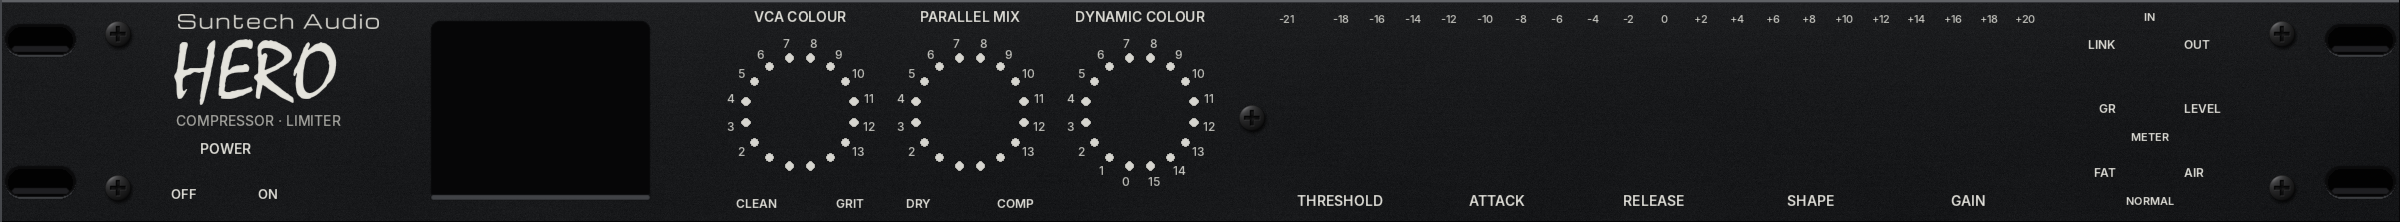
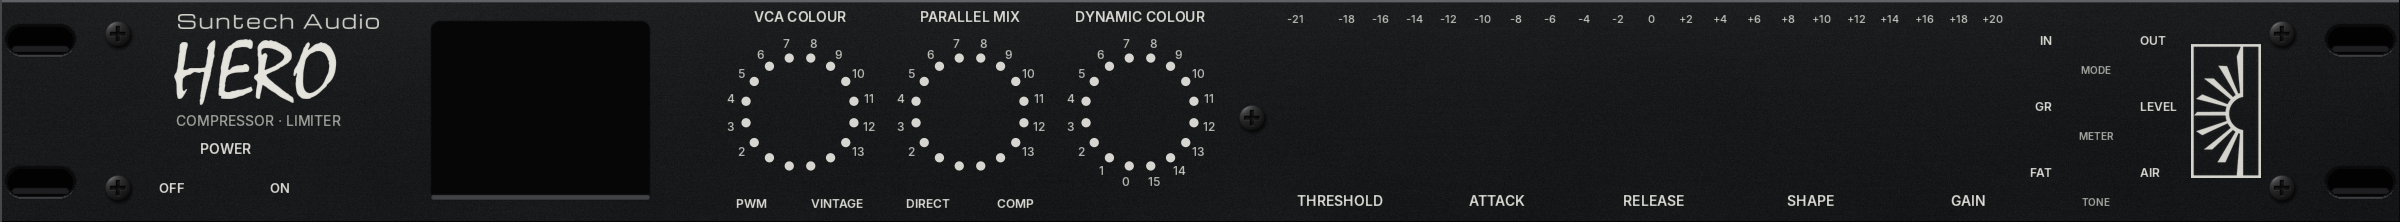
Update HERO hardware GUI and slow stepped encoders; retain linked and neutral modes

diff --git a/plugin/Editor.cpp b/plugin/Editor.cpp
@@ -4,29 +4,41 @@ using namespace juce;
 namespace {
 Image asset(const char* name){int n=0;const auto* data=HeroAssets::getNamedResource(name,n);return data?ImageCache::getFromMemory(data,n):Image{};}
 struct Position{int index;float x,y,size;bool red,toggle;int steps;};
-constexpr Position positions[]={{0,226,188,72,false,true,2},{5,800,112,88,true,false,16},{6,970,112,88,true,false,16},{7,1140,112,88,true,false,16},
- {1,1340,128,104,false,false,100},{2,1497,128,104,false,false,100},{3,1654,128,104,false,false,100},{4,1811,128,104,false,false,100},{8,1968,128,104,false,false,24},
- {9,2150,44,72,false,true,3},{10,2150,108,72,false,true,2},{11,2150,172,72,false,true,3}};
+constexpr Position positions[]={{0,226,188,96,false,true,2},{5,800,112,120,true,false,16},{6,970,112,120,true,false,16},{7,1140,112,120,true,false,16},
+ {1,1340,128,136,false,false,100},{2,1497,128,136,false,false,100},{3,1654,128,136,false,false,100},{4,1811,128,136,false,false,100},{8,1968,128,136,false,false,24},
+ {9,2096,40,96,false,true,3},{10,2096,106,96,false,true,2},{11,2096,172,96,false,true,3}};
 }
 HeroControl::HeroControl(HeroProcessor& p,int id,bool r,bool t,int steps):processor(p),parameter(p.state.getParameter(HeroProcessor::ids[(size_t)id])),index(id),count(steps),red(r),toggle(t){
     setComponentID(HeroProcessor::ids[(size_t)id]);setName(parameter->getName(64));setWantsKeyboardFocus(true);
-    if(toggle){left=asset("switch_left_png");center=asset("switch_center_png");right=asset("switch_right_png");}
-    else {strip=asset(red?"hero_knob_red_strip_256_png":"hero_knob_teal_strip_256_png");shadow=asset(red?"hero_knob_red_shadow_512_png":"hero_knob_teal_shadow_512_png");}refresh();
+    strip=asset(toggle?"hero_toggle_strip_png":red?"hero_knob_red_strip_png":"hero_knob_teal_strip_png");refresh();
 }
-bool HeroControl::assetsValid()const{return toggle?left.isValid()&&center.isValid()&&right.isValid():strip.isValid()&&shadow.isValid();}
+bool HeroControl::assetsValid()const{return strip.isValid()&&strip.getHeight()==strip.getWidth()*(toggle?2:red?16:128);}
 void HeroControl::paint(Graphics& g){g.setImageResamplingQuality(Graphics::highResamplingQuality);
-    if(toggle){int pos=roundToInt(current());const Image& image=count==2?(pos?right:left):(pos==0?left:pos==1?center:right);g.drawImage(image,getLocalBounds().toFloat());return;}
-    g.drawImage(shadow,getLocalBounds().toFloat());const int frames=red?16:128,frame=jlimit(0,frames-1,red?roundToInt(current()):roundToInt(current()/(count-1)*(frames-1)));
-    g.drawImage(strip,0,0,getWidth(),getHeight(),0,frame*256,256,256);
+    int frame=0;
+    if(toggle){const int v=roundToInt(current());frame=index==9?(v==2?1:0):index==11?(v==2?1:0):v;
+        if(index==11&&v==1){const auto bounds=getLocalBounds().toFloat().reduced(getWidth()*.14f,getHeight()*.32f);g.setColour(Colour(0xff090b0c));g.fillRoundedRectangle(bounds,3.f);g.setColour(Colour(0xff65716d));g.drawRoundedRectangle(bounds,3.f,.7f);g.setColour(Colour(0xffccd4cf));g.setFont(Font(FontOptions().withHeight(getHeight()*.18f)));g.drawText("NORMAL",bounds,Justification::centred,false);return;}}
+    else {const int frames=red?16:128;frame=jlimit(0,frames-1,red?roundToInt(current()):roundToInt(current()/(count-1)*(frames-1)));}
+    const int side=strip.getWidth();g.drawImage(strip,0,0,getWidth(),getHeight(),0,frame*side,side,side);
 }
 void HeroControl::set(float v){v=red?(float)((roundToInt(v)%count+count)%count):jlimit(0.f,float(count-1),v);parameter->setValueNotifyingHost(parameter->convertTo0to1(v));refresh();}
-void HeroControl::mouseDown(const MouseEvent& e){if(e.mods.isPopupMenu()){if(contextMenu)contextMenu();return;}grabKeyboardFocus();start=current();parameter->beginChangeGesture();dragging=true;}
-void HeroControl::mouseDrag(const MouseEvent& e){if(!dragging)return;const float sensitivity=e.mods.isShiftDown()?.08f:.5f;const float distance=toggle?float(e.getDistanceFromDragStartX())/10.f:-float(e.getDistanceFromDragStartY())*sensitivity;
-    if(toggle&&std::abs(e.getDistanceFromDragStartX())<6)return;set(start+std::round(distance));}
-void HeroControl::mouseUp(const MouseEvent& e){if(!dragging)return;if(toggle&&e.getDistanceFromDragStart()<4){const int next=(roundToInt(start)+1)%count;set((float)next);}parameter->endChangeGesture();dragging=false;}
-void HeroControl::mouseDoubleClick(const MouseEvent&){parameter->beginChangeGesture();parameter->setValueNotifyingHost(parameter->getDefaultValue());parameter->endChangeGesture();refresh();}
-void HeroControl::mouseWheelMove(const MouseEvent&,const MouseWheelDetails& wheel){if(wheel.deltaY==0)return;parameter->beginChangeGesture();set(current()+(wheel.deltaY>0?1.f:-1.f));parameter->endChangeGesture();}
-bool HeroControl::keyPressed(const KeyPress& key){int step=0;if(key==KeyPress::upKey||key==KeyPress::rightKey)step=1;else if(key==KeyPress::downKey||key==KeyPress::leftKey)step=-1;else return false;parameter->beginChangeGesture();set(current()+(float)step);parameter->endChangeGesture();return true;}
+void HeroControl::setTogglePosition(bool right){set(index==9?(right?2.f:(float)processor.preferredMode()):index==11?(right?2.f:0.f):(right?1.f:0.f));}
+void HeroControl::mouseDown(const MouseEvent& e){if(e.mods.isPopupMenu()){if(contextMenu)contextMenu();return;}grabKeyboardFocus();start=current();dragSteps=wheelSteps=0;lastDragY=0;parameter->beginChangeGesture();dragging=true;}
+void HeroControl::mouseDrag(const MouseEvent& e){if(!dragging)return;
+    if(toggle){if(std::abs(e.getDistanceFromDragStartX())<6)return;setTogglePosition(e.getDistanceFromDragStartX()>0);return;}
+    const int distance=e.getDistanceFromDragStartY();const float pixels=float(lastDragY-distance);lastDragY=distance;
+    const float rate=red?1.f/(e.mods.isShiftDown()?64.f:16.f):float(count-1)/(e.mods.isShiftDown()?1440.f:360.f);
+    dragSteps+=pixels*rate;
+    if(red){const float step=std::trunc(dragSteps);if(step!=0){dragSteps-=step;set(current()+step);}}
+    else {dragSteps=jlimit(-start,float(count-1)-start,dragSteps);set(start+std::round(dragSteps));}
+}
+void HeroControl::mouseUp(const MouseEvent& e){if(!dragging)return;if(toggle&&e.getDistanceFromDragStart()<4){const bool wasRight=index==9?start==2:index==11?start==2:start>0;setTogglePosition(index==11&&start==1?e.position.x>=getWidth()*.5f:!wasRight);}parameter->endChangeGesture();dragging=false;}
+void HeroControl::mouseDoubleClick(const MouseEvent&){if(!dragging)parameter->beginChangeGesture();parameter->setValueNotifyingHost(parameter->getDefaultValue());if(!dragging)parameter->endChangeGesture();start=current();dragSteps=0;lastDragY=0;refresh();}
+void HeroControl::mouseWheelMove(const MouseEvent& e,const MouseWheelDetails& wheel){if(wheel.deltaY==0||dragging)return;const auto now=Time::getMillisecondCounter();const float delta=wheel.deltaY;
+    if(now-lastWheelTime>400||(wheelSteps*delta<0))wheelSteps=0;lastWheelTime=now;
+    const float amount=wheel.isSmooth?delta*(red?2.f:4.f):std::copysign(jmin(1.f,std::abs(delta)/.1f),delta);
+    wheelSteps=jlimit(-1.f,1.f,wheelSteps+amount*(e.mods.isShiftDown()?.25f:1.f));const float step=std::trunc(wheelSteps);if(step==0)return;wheelSteps-=step;
+    parameter->beginChangeGesture();if(toggle)setTogglePosition(step>0);else set(current()+step);parameter->endChangeGesture();}
+bool HeroControl::keyPressed(const KeyPress& key){int step=0;if(key==KeyPress::upKey||key==KeyPress::rightKey)step=1;else if(key==KeyPress::downKey||key==KeyPress::leftKey)step=-1;else return false;parameter->beginChangeGesture();if(toggle)setTogglePosition(step>0);else set(current()+(float)step);parameter->endChangeGesture();return true;}
 void HeroControl::refresh(){const float v=current();if(v==last)return;last=v;String text=parameter->getName(40)+": "+String(roundToInt(v));
     if(index==1)text+=" ("+String(-40.+40.*v/99.,1)+" dBFS reference)";
     if(index==2)text+=" (nominal "+String(.05*std::pow(8000.,v/99.),2)+" ms)";
@@ -34,7 +46,8 @@ void HeroControl::refresh(){const float v=current();if(v==last)return;last=v;Str
     if(index==8)text=String(.5*v,1)+" dB make-up";
     if(toggle)text=parameter->getName(40)+": "+parameter->getCurrentValueAsText();setTooltip(text);repaint();
 }
-HeroEditor::HeroEditor(HeroProcessor& p):AudioProcessorEditor(p),processor(p),panel(asset("faceplate_png")),meterOff(asset("meter_all_off_png")),meterOn(asset("meter_all_on_png")){
+HeroEditor::HeroEditor(HeroProcessor& p):AudioProcessorEditor(p),processor(p),panel(asset("faceplate_png")),panel1x(asset("faceplate_1x_png")),meterWindow(asset("meter_window_bg_png")){
+    const char* colours[]={"lime","orange","red"};for(int i=0;i<3;++i){ledOff[(size_t)i]=asset((String("led_")+colours[i]+"_off_png").toRawUTF8());ledOn[(size_t)i]=asset((String("led_")+colours[i]+"_on_png").toRawUTF8());}
     lcdFace=Typeface::createSystemTypefaceFor(HeroAssets::DejaVuSansMono_ttf,HeroAssets::DejaVuSansMono_ttfSize);
     for(const auto& pos:positions){auto* c=controls.add(new HeroControl(p,pos.index,pos.red,pos.toggle,pos.steps));c->contextMenu=[this]{showMenu();};addAndMakeVisible(c);}
     PropertiesFile::Options options;options.applicationName="Suntech Audio HERO";options.folderName="Suntech Audio";options.filenameSuffix="settings";options.osxLibrarySubFolder="Application Support";preferences.setStorageParameters(options);
@@ -43,19 +56,22 @@ HeroEditor::HeroEditor(HeroProcessor& p):AudioProcessorEditor(p),processor(p),pa
 }
 HeroEditor::~HeroEditor(){stopTimer();preferences.getUserSettings()->setValue("width",getWidth());preferences.saveIfNeeded();}
 void HeroEditor::resized(){const float s=getWidth()/2400.f;for(int i=0;i<controls.size();++i){const auto& p=positions[i];controls[i]->setBounds(roundToInt((p.x-p.size*.5f)*s),roundToInt((p.y-p.size*.5f)*s),roundToInt(p.size*s),roundToInt(p.size*s));}}
-void HeroEditor::paint(Graphics& g){g.setImageResamplingQuality(Graphics::highResamplingQuality);g.addTransform(AffineTransform::scale(getWidth()/2400.f));g.drawImageAt(panel,0,0);
-    g.drawImage(lcd,440,30,200,160,0,0,lcd.getWidth(),lcd.getHeight());g.drawImageAt(meterOff,1268,34);
-    if(processor.value(0)>.5f){const bool reduction=processor.value(10)<.5f;for(int j=0;j<83;++j){const float db=-21.f+.5f*j;const bool lit=reduction?(db<=0.f&&db>=-gr):(db<=Decibels::gainToDecibels(jmax(level,1e-8f))+18.f);if(lit){const int x=jmax(0,13+j*9),w=jmin(11,meterOn.getWidth()-x);g.drawImage(meterOn,1268+x,34,w,30,x,0,w,30);}}}
+void HeroEditor::paint(Graphics& g){g.setImageResamplingQuality(Graphics::highResamplingQuality);const float effective=getWidth()/1200.f*g.getInternalContext().getPhysicalPixelScaleFactor();const auto& bg=effective<=1.001f?panel1x:panel;g.addTransform(AffineTransform::scale(getWidth()/2400.f));g.drawImage(bg,0,0,2400,222,0,0,bg.getWidth(),bg.getHeight());
+    g.drawImage(lcd,440,30,200,160,0,0,lcd.getWidth(),lcd.getHeight());g.drawImageAt(meterWindow,1268,34);
+    const bool reduction=processor.value(10)<.5f,powered=processor.value(0)>.5f;
+    // Complete the off layer before adding overlapping LED glow sprites.
+    for(int pass=0;pass<2;++pass)for(int j=0;j<42;++j){const float db=-21.f+j;const int colour=db<0?0:db==0?1:2;const int x=1278+j*17;const bool lit=powered&&(reduction?(db<=0.f&&db>=-gr):(db<=Decibels::gainToDecibels(jmax(level,1e-8f))+18.f));
+        if(pass==1&&!lit)continue;const auto& image=pass==0?ledOff[(size_t)colour]:ledOn[(size_t)colour];g.drawImage(image,x,35,34,30,0,0,image.getWidth(),image.getHeight());}
 }
 void HeroEditor::timerCallback(){bool changed=first;for(size_t i=0;i<previous.size();++i){float v=processor.value((int)i);if(v!=previous[i])changed=true;previous[i]=v;}for(auto* c:controls)c->refresh();if(changed){renderLCD();repaint();}first=false;
     const auto peaks=processor.takePeaks();gr=jmax(peaks[0],gr*float(std::exp(-1./(.3*30.))));const float decay=float(std::exp(-1./(.3*30.)));level=peaks[1]>level?level+(peaks[1]-level)*float(1.-std::exp(-1./(.01*30.))):jmax(peaks[1],level*decay);
-    const int pos=roundToInt(processor.value(10)<.5f?gr*2:(Decibels::gainToDecibels(jmax(level,1e-8f))+18)*2);if(pos!=meterPosition){meterPosition=pos;const float s=getWidth()/2400.f;repaint(roundToInt(1266*s),roundToInt(32*s),roundToInt(779*s),roundToInt(34*s));}
+    const int pos=roundToInt(processor.value(10)<.5f?gr:(Decibels::gainToDecibels(jmax(level,1e-8f))+18));if(pos!=meterPosition){meterPosition=pos;const float s=getWidth()/2400.f;repaint(roundToInt(1266*s),roundToInt(32*s),roundToInt(755*s),roundToInt(36*s));}
 }
 void HeroEditor::renderLCD(){
     // These images are sampled on the CPU below. Software backing avoids
     // reading unflushed Direct2D draws and repeated GPU readbacks on Windows.
-    Image content(Image::RGB,160,128,true,SoftwareImageType{});
-    {Graphics g(content);g.fillAll(Colour(0xff040402));g.setFont(Font(FontOptions(lcdFace).withHeight(15.f)));
+    Image content(Image::RGB,640,512,true,SoftwareImageType{});
+    {Graphics g(content);g.fillAll(Colour(0xff040402));g.addTransform(AffineTransform::scale(4.f));g.setFont(Font(FontOptions(lcdFace).withHeight(15.f)));
     const String rows[]={"T"+String(roundToInt(previous[1])).paddedLeft('0',2),"A"+String(roundToInt(previous[2])).paddedLeft('0',2),"R"+String(roundToInt(previous[3])).paddedLeft('0',2),"S"+String(roundToInt(previous[4])).paddedLeft('0',2),String(previous[8]*.5f,1)+"DB"};
     for(int i=0;i<5;++i){g.setColour(Colour(i==4?0xffbeec96:0xffd6f0a0));g.setFont(Font(FontOptions(lcdFace).withHeight(i==4?11.f:15.f)));g.drawText(rows[i],5,8+22*i,58,19,Justification::centredLeft,false);}
     const int mode=roundToInt(previous[9]);const bool active=previous[0]>.5f&&mode!=2;const String status=active?(mode==0?"LINK":"IN"):"OUT";g.setColour(Colour(!active?0xffe23020:mode==0?0xff50c8e6:0xfff08030));g.setFont(Font(FontOptions(lcdFace).withHeight(15.f)));g.drawText(status,63,1,67,19,Justification::centredRight,false);
@@ -65,21 +81,30 @@ void HeroEditor::renderLCD(){
     // Exact clean feedback equilibrium, not the GUI draft's unrelated feed-forward curve.
     for(int i=0;i<=240;++i){const double dbu=-35.+i*.25,dbfs=dbu-22.;const double out=active?dbu-model.staticReduction(dbfs):dbu;const auto pt=point(dbu,out);if(!begun){path.startNewSubPath(pt);begun=true;}else path.lineTo(pt);}g.setColour(Colour(0xffe2f2f0));g.strokePath(path,PathStrokeType(1.f));
     } // Finish the content draw before downsampling or reading any pixels.
-    Image grid(Image::RGB,100,80,true,SoftwareImageType{});{Graphics small(grid);small.setImageResamplingQuality(Graphics::highResamplingQuality);small.drawImage(content,grid.getBounds().toFloat());}
-    lcd=Image(Image::RGB,400,320,true,SoftwareImageType{});Graphics dots(lcd);dots.fillAll(Colour(0xff030303));
-    for(int y=0;y<80;++y)for(int x=0;x<100;++x){const auto c=grid.getPixelAt(x,y);const float energy=jmax(c.getFloatRed(),c.getFloatGreen(),c.getFloatBlue());const float light=previous[0]>.5f?1.f:.03f;Colour col=Colour::fromFloatRGBA(jlimit(0.f,1.f,(c.getFloatRed()*1.3f+.035f)*light),jlimit(0.f,1.f,(c.getFloatGreen()*1.3f+.035f)*light),jlimit(0.f,1.f,(c.getFloatBlue()*1.3f+.035f)*light),1.f);if(energy>.1f){dots.setColour(col.withAlpha(.20f));dots.fillEllipse(x*4.f-.2f,y*4.f-.2f,4.4f,4.4f);}dots.setColour(col);dots.fillEllipse(x*4.f+.6f,y*4.f+.6f,2.8f,2.8f);}
-    dots.setGradientFill(ColourGradient(Colours::white.withAlpha(.055f),0,0,Colours::transparentWhite,210,250,false));dots.fillAll();
+    Image grid(Image::RGB,100,80,true,SoftwareImageType{});
+    {const Image::BitmapData source(content,Image::BitmapData::readOnly);Image::BitmapData dest(grid,Image::BitmapData::writeOnly);
+    // Area-average the supersampled glyphs onto the physical dot grid. A
+    // point/bicubic sample at this reduction ratio can miss entire strokes.
+    for(int y=0;y<80;++y)for(int x=0;x<100;++x){const double x0=x*6.4,x1=(x+1)*6.4,y0=y*6.4,y1=(y+1)*6.4;double r=0,g=0,b=0,weight=0;
+        for(int sy=(int)std::floor(y0);sy<jmin(512,(int)std::ceil(y1));++sy)for(int sx=(int)std::floor(x0);sx<jmin(640,(int)std::ceil(x1));++sx){const double w=(jmin(x1,double(sx+1))-jmax(x0,double(sx)))*(jmin(y1,double(sy+1))-jmax(y0,double(sy)));const auto c=source.getPixelColour(sx,sy);r+=w*c.getRed();g+=w*c.getGreen();b+=w*c.getBlue();weight+=w;}
+        dest.setPixelColour(x,y,Colour((uint8)roundToInt(r/weight),(uint8)roundToInt(g/weight),(uint8)roundToInt(b/weight)));}}
+    lcd=Image(Image::RGB,800,640,true,SoftwareImageType{});Graphics dots(lcd);dots.fillAll(Colour(0xff030303));
+    for(int y=0;y<80;++y)for(int x=0;x<100;++x){const auto c=grid.getPixelAt(x,y);const float energy=jmax(c.getFloatRed(),c.getFloatGreen(),c.getFloatBlue());const float light=previous[0]>.5f?1.f:.03f;Colour col=Colour::fromFloatRGBA(jlimit(0.f,1.f,(c.getFloatRed()*1.3f+.035f)*light),jlimit(0.f,1.f,(c.getFloatGreen()*1.3f+.035f)*light),jlimit(0.f,1.f,(c.getFloatBlue()*1.3f+.035f)*light),1.f);if(energy>.1f){dots.setColour(col.withAlpha(.20f));dots.fillEllipse(x*8.f-.4f,y*8.f-.4f,8.8f,8.8f);}dots.setColour(col);dots.fillEllipse(x*8.f+1.2f,y*8.f+1.2f,5.6f,5.6f);}
+    dots.setGradientFill(ColourGradient(Colours::white.withAlpha(.055f),0,0,Colours::transparentWhite,420,500,false));dots.fillAll();
 }
 void HeroEditor::mouseDown(const MouseEvent& e){if(e.mods.isPopupMenu())showMenu();}
-void HeroEditor::showMenu(){PopupMenu menu;menu.addSectionHeader("Suntech Audio HERO");menu.addItem(1,"4x oversampling",true,processor.value(12)<.5f);menu.addItem(2,"8x oversampling",true,processor.value(12)>.5f);menu.addSeparator();for(int i=0;i<5;++i){const int zoom[]={75,100,125,150,200};menu.addItem(10+i,String(zoom[i])+"% interface",true,getWidth()==zoom[i]*12);}menu.addSeparator();menu.addItem(20,"About HERO 0.1.0");
-    Component::SafePointer<HeroEditor> self(this);menu.showMenuAsync(PopupMenu::Options().withTargetComponent(this),[self](int choice){if(!self)return;if(choice==1||choice==2){auto* p=self->processor.state.getParameter("oversampling");p->beginChangeGesture();p->setValueNotifyingHost(choice==2?1.f:0.f);p->endChangeGesture();}else if(choice>=10&&choice<15){const int zoom[]={75,100,125,150,200};int w=zoom[choice-10]*12;self->setSize(w,roundToInt(w*111./1200.));}else if(choice==20)AlertWindow::showMessageBoxAsync(MessageBoxIconType::InfoIcon,"Suntech Audio HERO 0.1.0","Independent Titan-inspired research model. Based on the supplied v10 DSP, not a circuit-accurate or manufacturer-endorsed emulation.\n\n4x/8x FIR oversampling; fixed compensated latency. Right-click the panel for quality and zoom settings.","OK",self);});
+void HeroEditor::showMenu(){PopupMenu menu;menu.addSectionHeader("Suntech Audio HERO");menu.addItem(1,"4x oversampling",true,processor.value(12)<.5f);menu.addItem(2,"8x oversampling",true,processor.value(12)>.5f);
+    PopupMenu stereo;stereo.addItem(30,"Linked",true,processor.preferredMode()==0);stereo.addItem(31,"Independent L/R",true,processor.preferredMode()==1);menu.addSubMenu("Stereo control",stereo);
+    PopupMenu tone;const char* names[]={"FAT","NORMAL","AIR"};for(int i=0;i<3;++i)tone.addItem(40+i,names[i],true,roundToInt(processor.value(11))==i);menu.addSubMenu("Tone",tone);
+    menu.addSeparator();for(int i=0;i<5;++i){const int zoom[]={75,100,125,150,200};menu.addItem(10+i,String(zoom[i])+"% interface",true,getWidth()==zoom[i]*12);}menu.addSeparator();menu.addItem(20,"About HERO 0.1.1");
+    Component::SafePointer<HeroEditor> self(this);menu.showMenuAsync(PopupMenu::Options().withTargetComponent(this),[self](int choice){if(!self)return;if(choice==1||choice==2){auto* p=self->processor.state.getParameter("oversampling");p->beginChangeGesture();p->setValueNotifyingHost(choice==2?1.f:0.f);p->endChangeGesture();}else if(choice==30||choice==31)self->processor.selectPreferredMode(choice-30);else if(choice>=40&&choice<=42){auto* p=self->processor.state.getParameter("tone");p->beginChangeGesture();p->setValueNotifyingHost(p->convertTo0to1(float(choice-40)));p->endChangeGesture();}else if(choice>=10&&choice<15){const int zoom[]={75,100,125,150,200};int w=zoom[choice-10]*12;self->setSize(w,roundToInt(w*111./1200.));}else if(choice==20)AlertWindow::showMessageBoxAsync(MessageBoxIconType::InfoIcon,"Suntech Audio HERO 0.1.1","Independent Titan-inspired research model. Based on the supplied v10 DSP, not a circuit-accurate or manufacturer-endorsed emulation.\n\n4x/8x FIR oversampling; fixed compensated latency. Right-click the panel for stereo control, tone, quality and zoom settings.","OK",self);});
 }
-bool HeroEditor::assetsValidForTesting()const{if(!panel.isValid()||!meterOff.isValid()||!meterOn.isValid()||!lcdFace||!lcd.isValid())return false;for(auto* c:controls)if(!c->assetsValid())return false;return true;}
+bool HeroEditor::assetsValidForTesting()const{if(!panel.isValid()||!panel1x.isValid()||!meterWindow.isValid()||!lcdFace||!lcd.isValid())return false;for(int i=0;i<3;++i)if(!ledOff[(size_t)i].isValid()||!ledOn[(size_t)i].isValid())return false;for(auto* c:controls)if(!c->assetsValid())return false;return true;}
 bool HeroEditor::lcdHasReadoutsForTesting()const{
     if(!lcd.isValid())return false;int green=0;
     const Image::BitmapData data(lcd,Image::BitmapData::readOnly);
     // Left-column text must contain bright pale-green dots, not just glass.
-    for(int y=16;y<240;++y)for(int x=6;x<146;++x){const auto c=data.getPixelColour(x,y);if(c.getGreen()>90&&c.getGreen()>c.getBlue()*1.15f&&c.getGreen()>c.getRed()*1.02f)++green;}
+    const float scale=lcd.getWidth()/400.f;for(int y=roundToInt(16*scale);y<roundToInt(240*scale);++y)for(int x=roundToInt(6*scale);x<roundToInt(146*scale);++x){const auto c=data.getPixelColour(x,y);if(c.getGreen()>90&&c.getGreen()>c.getBlue()*1.15f&&c.getGreen()>c.getRed()*1.02f)++green;}
     return green>80;
 }
 Component* HeroEditor::controlForTesting(const String& id)const{for(auto* c:controls)if(c->getComponentID()==id)return c;return nullptr;}

diff --git a/tests/plugin_tests.cpp b/tests/plugin_tests.cpp
@@ -25,6 +25,8 @@ static void processorTests(){
  check(p.value(0)==1&&p.value(1)==45&&p.value(2)==30&&p.value(3)==30&&p.value(4)==45&&p.value(6)==15&&p.value(9)==0,"Default values preserve supplied engine calibration and stereo link");
  for(int i=0;i<13;++i)set(p,HeroProcessor::ids[(size_t)i],float(i%2));set(p,"gain",17);set(p,"threshold",73);MemoryBlock state;p.getStateInformation(state);HeroProcessor q;q.setStateInformation(state.getData(),(int)state.getSize());bool same=true;for(int i=0;i<13;++i)same&=p.value(i)==q.value(i);check(same,"All parameter values restore into a new instance");
  q.setStateInformation("junk",4);check(q.value(1)==73,"Invalid state safely ignored");
+ HeroProcessor remembered;set(remembered,"mode",1);set(remembered,"mode",2);MemoryBlock memory;remembered.getStateInformation(memory);HeroProcessor restored;restored.setStateInformation(memory.getData(),(int)memory.getSize());check(restored.value(9)==2&&restored.preferredMode()==1,"OUT state remembers independent stereo operation across new-instance recall");
+ restored.selectPreferredMode(0);check(restored.value(9)==2&&restored.preferredMode()==0,"Stereo preference can change in menu while OUT stays bypassed");set(restored,"mode",(float)restored.preferredMode());check(restored.value(9)==0,"Front IN restores the selected stereo preference");
  wrappedReference();
  for(int factor=0;factor<2;++factor){const auto a=render(512,factor),b=render(127,factor),c=render(1,factor);float error=0;for(size_t i=0;i<a.size();++i)error=jmax(error,std::abs(a[i]-b[i]),std::abs(a[i]-c[i]));check(error<2e-6f,"Whole-loop audio is invariant across 1/127/512-sample host blocks at "+String(factor?8:4)+"x");}
  for(int mode=0;mode<3;++mode){HeroProcessor bypass;if(mode==0)set(bypass,"power",0);if(mode==1)set(bypass,"mode",2);bypass.prepareToPlay(48000,512);MidiBuffer m;AudioBuffer<float>b(2,4096);b.clear();for(int k=0;k<4;++k){if(mode==2)bypass.processBlockBypassed(b,m);else bypass.processBlock(b,m);}std::vector<float> source(4096);for(int i=0;i<4096;++i){source[(size_t)i]=(float)(.6*std::sin(2*titan::pi*19000*i/48000.));for(int c=0;c<2;++c)b.setSample(c,i,source[(size_t)i]);}if(mode==2)bypass.processBlockBypassed(b,m);else bypass.processBlock(b,m);float error=0;for(int i=0;i<4096;++i)error=jmax(error,std::abs(b.getSample(0,i)-(i<bypass.getLatencySamples()?0.f:source[(size_t)(i-bypass.getLatencySamples())])));check(error==0.f,"Power / OUT / host bypass is a sample-exact delayed raw copy, case "+String(mode));}
@@ -39,12 +41,32 @@ static void analysis(const File& directory){
  for(int setting=0;setting<2;++setting){HeroProcessor p;set(p,"oversampling",(float)setting);set(p,"threshold",60);set(p,"attack",0);set(p,"shape",0);set(p,"vcaColour",15);set(p,"dynamicColour",15);p.prepareToPlay(48000,512);std::vector<float> rendered(n);auto start=std::chrono::steady_clock::now();for(int off=0;off<n;){int size=jmin(512,n-off);AudioBuffer<float>b(2,size);for(int c=0;c<2;++c)b.copyFrom(c,0,input.data()+off,size);process(p,b);for(int i=0;i<size;++i)rendered[(size_t)(off+i)]=b.getSample(0,i);off+=size;}double seconds=std::chrono::duration<double>(std::chrono::steady_clock::now()-start).count();double alias=bin(rendered,3000,48000),relative=20*std::log10(jmax(1e-15,alias)/jmax(1e-15,baseline));csv+=String(setting?8:4)+","+String(20*std::log10(jmax(1e-15,alias)),3)+","+String(relative,3)+","+String(1./seconds,3)+"\n";check(std::isfinite(relative)&&relative<-20,"Actual whole-engine FIR wrapper reduces 15 kHz foldback by at least 20 dB");std::printf("%dx alias %.2f dBFS, rejection %.2f dB; %.2fx realtime (both paths kept warm)\n",setting?8:4,20*std::log10(jmax(1e-15,alias)),relative,1./seconds);}
  directory.getChildFile("alias-cpu.csv").replaceWithText(csv);
 }
+static MouseEvent event(Component* c,float dy=0,bool shift=false){const auto t=Time::getCurrentTime();return {Desktop::getInstance().getMainMouseSource(),{20.f,20.f-dy},ModifierKeys(ModifierKeys::leftButtonModifier|(shift?ModifierKeys::shiftModifier:0)),1.f,0.f,0.f,0.f,0.f,c,c,t,{20.f,20.f},t,1,dy!=0};}
+static void interactionTests(HeroEditor& e,HeroProcessor& p){
+ auto* red=e.controlForTesting("vcaColour");auto* teal=e.controlForTesting("threshold");auto* gain=e.controlForTesting("gain");if(!red||!teal||!gain){check(false,"Control sensitivity test components exist");return;}
+ struct Gesture final : AudioProcessorParameter::Listener {int begins=0,ends=0;void parameterValueChanged(int,float)override{}void parameterGestureChanged(int,bool on)override{on?++begins:++ends;}} gesture;
+ auto* parameter=p.state.getParameter("vcaColour");parameter->addListener(&gesture);
+ set(p,"vcaColour",7);red->mouseDown(event(red));red->mouseDrag(event(red,2));check(p.value(5)==7,"Red knob ignores a 2-pixel drag");red->mouseDrag(event(red,15));check(p.value(5)==7,"Red detent requires a full 16 pixels");red->mouseDrag(event(red,16));check(p.value(5)==8,"Red knob advances one detent at 16 pixels");red->mouseDrag(event(red,15));check(p.value(5)==8,"One-pixel reversal does not chatter around a red detent");red->mouseDrag(event(red,0));check(p.value(5)==7,"Full reverse detent returns to previous value");red->mouseUp(event(red));
+ check(gesture.begins==1&&gesture.ends==1,"One drag produces one balanced host automation gesture");
+ red->mouseDown(event(red));red->mouseDrag(event(red,16,true));check(p.value(5)==7,"Shift-drag keeps red detents still at 16 pixels");red->mouseDrag(event(red,64,true));check(p.value(5)==8,"Shift-drag advances one red detent at 64 pixels");red->mouseUp(event(red,64,true));
+ red->mouseDown(event(red));red->mouseDrag(event(red,16));const float v=p.value(5);red->mouseDrag(event(red,16,true));check(p.value(5)==v,"Engaging Shift mid-drag does not jump the knob");red->mouseUp(event(red,16,true));
+ set(p,"vcaColour",15);red->mouseDown(event(red));red->mouseDrag(event(red,16));check(p.value(5)==0,"Slow mouse drag preserves red 15-to-0 wrapping");red->mouseUp(event(red,16));
+ const int before=gesture.begins;red->mouseDown(event(red));red->mouseDoubleClick(event(red));red->mouseUp(event(red));check(p.value(5)==0&&gesture.begins==before+1&&gesture.ends==gesture.begins,"Double-click resets without nesting host gestures");
+ MouseWheelDetails wheel{};wheel.deltaY=.001f;wheel.isSmooth=true;set(p,"vcaColour",7);for(int i=0;i<10;++i)red->mouseWheelMove(event(red),wheel);check(p.value(5)==7,"Tiny trackpad events do not spin the red encoder");wheel.deltaY=.46875f;wheel.isSmooth=false;red->mouseWheelMove(event(red),wheel);check(p.value(5)==8,"An ordinary wheel notch advances one red detent");parameter->removeListener(&gesture);
+ set(p,"threshold",0);teal->mouseDown(event(teal));teal->mouseDrag(event(teal,360));check(p.value(1)==99,"Teal range requires a 360-pixel full throw");teal->mouseUp(event(teal,360));
+ set(p,"gain",0);gain->mouseDown(event(gain));gain->mouseDrag(event(gain,360));check(p.value(8)==23,"Make-up knob uses the same full throw despite its smaller range");gain->mouseUp(event(gain,360));
+ auto* mode=e.controlForTesting("mode");p.selectPreferredMode(1);mode->keyPressed(KeyPress(KeyPress::upKey));check(p.value(9)==2,"Two-position front Mode selects OUT");mode->keyPressed(KeyPress(KeyPress::downKey));check(p.value(9)==1,"Two-position front Mode restores Independent IN");
+ auto* tone=e.controlForTesting("tone");set(p,"tone",1);tone->keyPressed(KeyPress(KeyPress::downKey));check(p.value(11)==0,"Tone left selects FAT");tone->keyPressed(KeyPress(KeyPress::upKey));check(p.value(11)==2,"Tone right selects AIR");tone->mouseDoubleClick(event(tone));check(p.value(11)==1,"NORMAL remains available as the original default");
+ set(p,"threshold",45);set(p,"gain",0);p.selectPreferredMode(0);set(p,"vcaColour",0);
+}
 static void editorTests(const File& out){HeroProcessor p;p.prepareToPlay(48000,512);std::unique_ptr<AudioProcessorEditor> base(p.createEditorIfNeeded());auto* e=dynamic_cast<HeroEditor*>(base.get());check(e&&e->assetsValidForTesting(),"Every supplied control image, panel, meter and embedded LCD font decodes");if(!e)return;
 #if JUCE_WINDOWS
  e->addToDesktop(0);e->setVisible(true);
 #endif
- auto snap=[&](const String& name){e->refreshForTesting();if(p.value(0)>.5f)check(e->lcdHasReadoutsForTesting(),"LCD contains visible parameter readouts: "+name);auto stream=out.getChildFile(name+".png").createOutputStream();auto image=e->createComponentSnapshot(e->getLocalBounds());check(stream&&PNGImageFormat().writeImageToStream(image,*stream),"Editor capture "+name);};
+ interactionTests(*e,p);
+ auto snap=[&](const String& name){e->refreshForTesting();if(p.value(0)>.5f)check(e->lcdHasReadoutsForTesting(),"LCD contains visible parameter readouts: "+name);auto file=out.getChildFile(name+".png");file.deleteFile();auto stream=file.createOutputStream();auto image=e->createComponentSnapshot(e->getLocalBounds());check(stream&&PNGImageFormat().writeImageToStream(image,*stream),"Editor capture "+name);};
  for(int width:{900,1200,1500,1800,2400}){e->setSize(width,roundToInt(width*111./1200.));snap("hero-width-"+String(width));}
+ {auto file=out.getChildFile("hero-lcd-800x640.png");file.deleteFile();auto stream=file.createOutputStream();check(stream&&PNGImageFormat().writeImageToStream(e->lcdForTesting(),*stream),"Live LCD high-resolution capture");}
  auto* red=e->controlForTesting("vcaColour");check(red!=nullptr,"Endless red control attached");if(red){set(p,"vcaColour",15);red->keyPressed(KeyPress(KeyPress::upKey));check(p.value(5)==0,"Red control wraps 15 to 0");red->keyPressed(KeyPress(KeyPress::downKey));check(p.value(5)==15,"Red control wraps 0 to 15");}
  for(const char* id:{"threshold","attack","release","shape","gain","mode","meterMode","tone","power"}){auto* c=e->controlForTesting(id);check(c!=nullptr,String("Live control attached: ")+id);if(c){const float before=p.state.getRawParameterValue(id)->load();c->keyPressed(KeyPress(before>0?KeyPress::downKey:KeyPress::upKey));check(p.state.getRawParameterValue(id)->load()!=before,String("Control updates host parameter: ")+id);}}
  e->setSize(1200,111);set(p,"power",1);set(p,"mode",0);snap("hero-link");set(p,"mode",1);snap("hero-in");set(p,"mode",2);snap("hero-out");set(p,"mode",0);set(p,"power",0);snap("hero-power-off");set(p,"power",1);set(p,"threshold",10);set(p,"attack",0);set(p,"shape",0);set(p,"vcaColour",15);set(p,"dynamicColour",15);AudioBuffer<float>b(2,512);for(int k=0;k<30;++k){for(int c=0;c<2;++c)for(int i=0;i<512;++i)b.setSample(c,i,(float)(.7*std::sin(2*titan::pi*997*(k*512+i)/48000.)));process(p,b);}snap("hero-compressing-gr");set(p,"meterMode",1);snap("hero-compressing-level");e->removeFromDesktop();e->setSize(1200,111);

diff --git a/plugin/Processor.cpp b/plugin/Processor.cpp
@@ -13,6 +13,13 @@ AudioProcessorValueTreeState::ParameterLayout HeroProcessor::layout(){
 }
 HeroProcessor::HeroProcessor():AudioProcessor(BusesProperties().withInput("Input",AudioChannelSet::stereo(),true).withOutput("Output",AudioChannelSet::stereo(),true)),state(*this,nullptr,"SUNTECH_HERO",layout()){
     for(size_t i=0;i<ids.size();++i)values[i]=state.getRawParameterValue(ids[i]);
+    state.addParameterListener("mode",this);
+}
+HeroProcessor::~HeroProcessor(){state.removeParameterListener("mode",this);}
+void HeroProcessor::parameterChanged(const String&,float v){const int mode=roundToInt(v);if(mode<2)engagedMode.store(jlimit(0,1,mode));}
+void HeroProcessor::selectPreferredMode(int mode){mode=jlimit(0,1,mode);const bool changed=engagedMode.exchange(mode)!=mode;
+    if(value(9)<1.5f){auto* p=state.getParameter("mode");p->beginChangeGesture();p->setValueNotifyingHost(p->convertTo0to1((float)mode));p->endChangeGesture();}
+    else if(changed)updateHostDisplay(ChangeDetails{}.withNonParameterStateChanged(true));
 }
 bool HeroProcessor::isBusesLayoutSupported(const BusesLayout& b)const{
     const auto in=b.getMainInputChannelSet();return (in==AudioChannelSet::mono()||in==AudioChannelSet::stereo())&&in==b.getMainOutputChannelSet();
@@ -64,10 +71,10 @@ void HeroProcessor::process(AudioBuffer<float>& b,bool bypass){
     publish(grPeak,wet.getCurrentValue()>0.f?blockGr:0.f);publish(outputPeak,blockPeak);
     for(int c=channels;c<b.getNumChannels();++c)b.clear(c,0,b.getNumSamples());
 }
-void HeroProcessor::getStateInformation(MemoryBlock& b){auto xml=state.copyState().createXml();xml->setAttribute("formatVersion",1);copyXmlToBinary(*xml,b);}
+void HeroProcessor::getStateInformation(MemoryBlock& b){auto xml=state.copyState().createXml();xml->setAttribute("formatVersion",1);xml->setAttribute("preferredMode",preferredMode());copyXmlToBinary(*xml,b);}
 void HeroProcessor::setStateInformation(const void* data,int size){
     if(auto xml=getXmlFromBinary(data,size);xml&&xml->hasTagName("SUNTECH_HERO")&&xml->getIntAttribute("formatVersion",1)<=1){auto tree=ValueTree::fromXml(*xml);
-        for(int i=tree.getNumChildren();--i>=0;){auto node=tree.getChild(i);auto* p=state.getParameter(node["id"].toString());if(!p){tree.removeChild(i,nullptr);continue;}float v=(float)node["value"];if(!std::isfinite(v))v=p->convertFrom0to1(p->getDefaultValue());v=p->convertFrom0to1(jlimit(0.f,1.f,p->convertTo0to1(v)));node.setProperty("value",v,nullptr);}state.replaceState(tree);}
+        for(int i=tree.getNumChildren();--i>=0;){auto node=tree.getChild(i);auto* p=state.getParameter(node["id"].toString());if(!p){tree.removeChild(i,nullptr);continue;}float v=(float)node["value"];if(!std::isfinite(v))v=p->convertFrom0to1(p->getDefaultValue());v=p->convertFrom0to1(jlimit(0.f,1.f,p->convertTo0to1(v)));node.setProperty("value",v,nullptr);}state.replaceState(tree);engagedMode.store(value(9)<1.5f?roundToInt(value(9)):jlimit(0,1,xml->getIntAttribute("preferredMode",0)));}
 }
 AudioProcessorEditor* HeroProcessor::createEditor(){return new HeroEditor(*this);}
 AudioProcessor* JUCE_CALLTYPE createPluginFilter(){return new HeroProcessor;}

diff --git a/tests/vst3_host.cpp b/tests/vst3_host.cpp
@@ -39,6 +39,6 @@ int main(int argc,char**argv){ScopedJuceInitialiser_GUI gui;if(argc!=3)return 2;
   std::atomic<bool> stop{false},finite{true};std::atomic<int> count{0};std::thread audio([&]{AudioBuffer<float>b(jmax(2,p->getTotalNumInputChannels()),512);MidiBuffer midi;int position=0;while(!stop.load()){for(int c=0;c<b.getNumChannels();++c)for(int i=0;i<512;++i)b.setSample(c,i,(float)(.45*std::sin(2*MathConstants<double>::pi*997*(position+i)/48000.)));p->processBlock(b,midi);for(int c=0;c<2;++c)for(int i=0;i<512;++i)if(!std::isfinite(b.getSample(c,i)))finite=false;position+=512;++count;Thread::sleep(1);}});
   for(int k=0;k<8;++k){for(auto*q:p->getParameters())if(q->getName(64)=="VCA Colour"||q->getName(64)=="Oversampling")q->setValueNotifyingHost(k%2?1.f:0.f);if(k==3)editor->setSize(900,83);if(k==5)editor->setSize(1200,111);editor->repaint();pump(65);}
   stop=true;audio.join();check(finite.load()&&count.load()>0,"Native GUI paints during live playback and automation");p->setStateInformation(saved.getData(),(int)saved.getSize());pump(40);
-  if(opening==0){auto image=editor->createComponentSnapshot(editor->getLocalBounds());auto s=out.getChildFile("native-vst3-editor.png").createOutputStream();check(s&&PNGImageFormat().writeImageToStream(image,*s),"Native VST3 screenshot");}
+  if(opening==0){auto image=editor->createComponentSnapshot(editor->getLocalBounds());auto file=out.getChildFile("native-vst3-editor.png");file.deleteFile();auto s=file.createOutputStream();check(s&&PNGImageFormat().writeImageToStream(image,*s),"Native VST3 screenshot");}
   editor->setVisible(false);editor->removeFromDesktop();editor.reset();pump(30);check(p->getLatencySamples()==latency,"Project recall/reopening preserves latency");
  }p->releaseResources();out.getChildFile("native-result.txt").replaceWithText("Failures: "+String(failures)+"\n");return failures?1:0;}

diff --git a/plugin/Processor.h b/plugin/Processor.h
@@ -3,9 +3,10 @@
 #include <juce_dsp/juce_dsp.h>
 #include "TitanCore.h"
 
-class HeroProcessor final : public juce::AudioProcessor {
+class HeroProcessor final : public juce::AudioProcessor,private juce::AudioProcessorValueTreeState::Listener {
 public:
     HeroProcessor();
+    ~HeroProcessor()override;
     const juce::String getName() const override { return "Suntech Audio HERO"; }
     void prepareToPlay(double, int) override;
     void releaseResources() override { ready=false; }
@@ -30,6 +31,8 @@ public:
     float value(int i) const noexcept {return values[(size_t)i]->load(std::memory_order_relaxed);}
     std::array<float,2> takePeaks() noexcept {return {grPeak.exchange(0),outputPeak.exchange(0)};}
     static juce::AudioProcessorValueTreeState::ParameterLayout layout();
+    int preferredMode()const noexcept {return engagedMode.load();}
+    void selectPreferredMode(int);
 private:
     static constexpr int quantum=8,delayCapacity=512;
     struct Delay {
@@ -54,6 +57,8 @@ private:
     int channels=2,controlLeft=0;
     bool ready=false;
     std::atomic<float> grPeak{0},outputPeak{0};
+    std::atomic<int> engagedMode{0};
+    void parameterChanged(const juce::String&,float)override;
     std::array<double,11> targets() const noexcept;
     void setTargets() noexcept;
     void updateControls() noexcept;

diff --git a/plugin/Editor.h b/plugin/Editor.h
@@ -20,9 +20,12 @@ private:
     juce::RangedAudioParameter* parameter;
     int index,count;
     bool red,toggle,dragging=false;
-    float start=0,last=-999;
-    juce::Image strip,shadow,left,center,right;
+    float start=0,last=-999,dragSteps=0,wheelSteps=0;
+    int lastDragY=0;
+    juce::uint32 lastWheelTime=0;
+    juce::Image strip;
     void set(float);
+    void setTogglePosition(bool right);
     float current()const{return processor.value(index);}
     JUCE_DECLARE_NON_COPYABLE_WITH_LEAK_DETECTOR(HeroControl)
 };
@@ -38,11 +41,13 @@ public:
     void refreshForTesting(){timerCallback();}
     bool assetsValidForTesting()const;
     bool lcdHasReadoutsForTesting()const;
+    const juce::Image& lcdForTesting()const{return lcd;}
     juce::Component* controlForTesting(const juce::String&)const;
 private:
     HeroProcessor& processor;
     juce::OwnedArray<HeroControl> controls;
-    juce::Image panel,meterOff,meterOn,lcd;
+    juce::Image panel,panel1x,meterWindow,lcd;
+    std::array<juce::Image,3> ledOff,ledOn;
     juce::Typeface::Ptr lcdFace;
     juce::TooltipWindow tips{this,450};
     juce::ApplicationProperties preferences;

diff --git a/tools/ci/package_windows.py b/tools/ci/package_windows.py
@@ -2,7 +2,7 @@
 import argparse, hashlib, json, re, struct, zipfile, tempfile
 from pathlib import Path
 NAME = 'Suntech Audio HERO'
-VERSION = '0.1.0'
+VERSION = '0.1.1'
 def digest(data): return hashlib.sha256(data).hexdigest()
 def exports(path):
     data=path.read_bytes()
